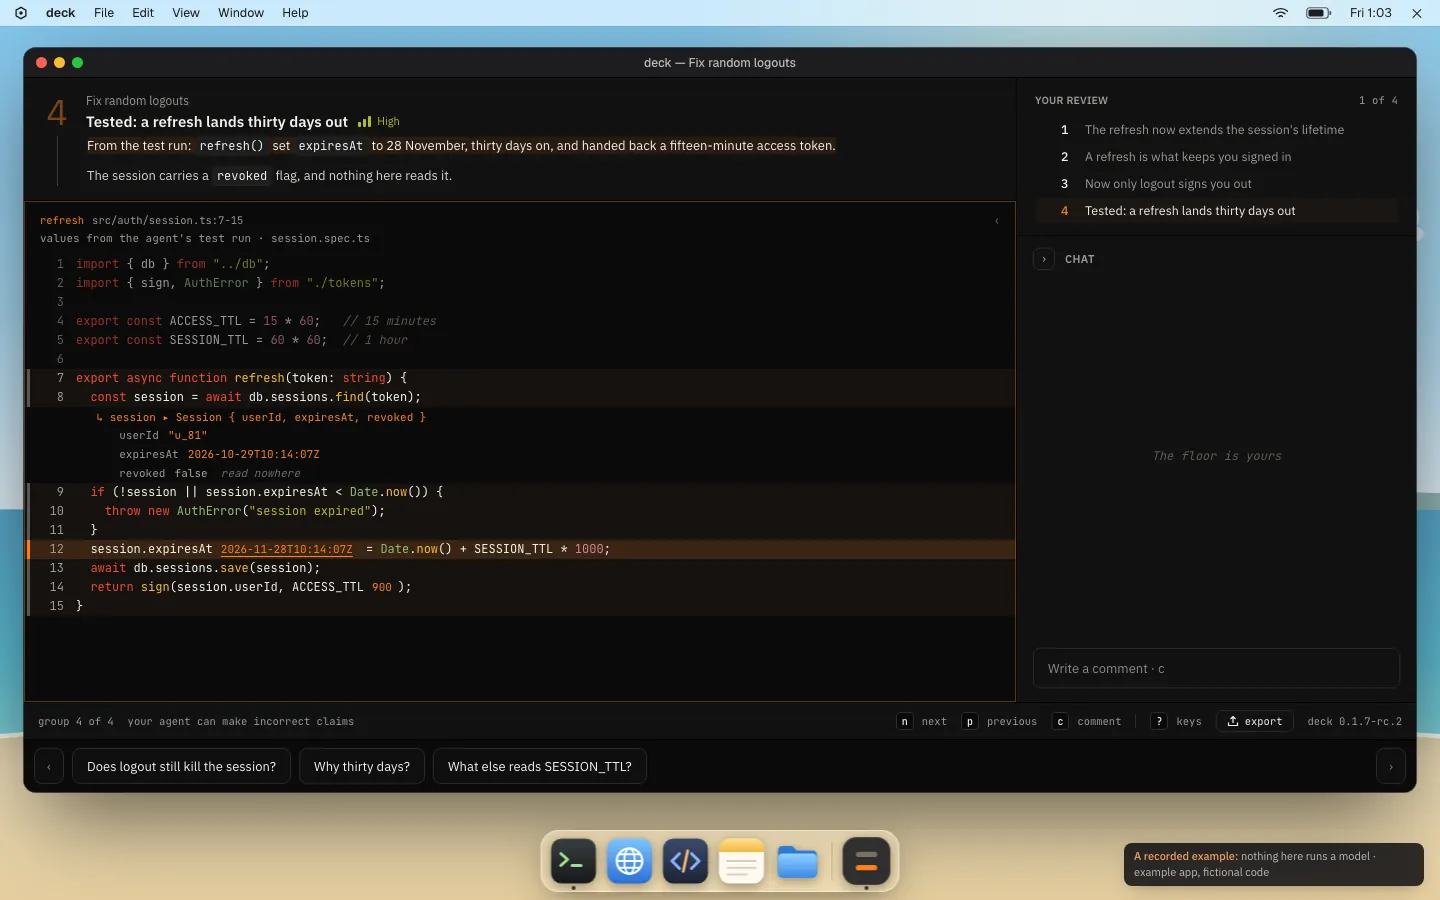
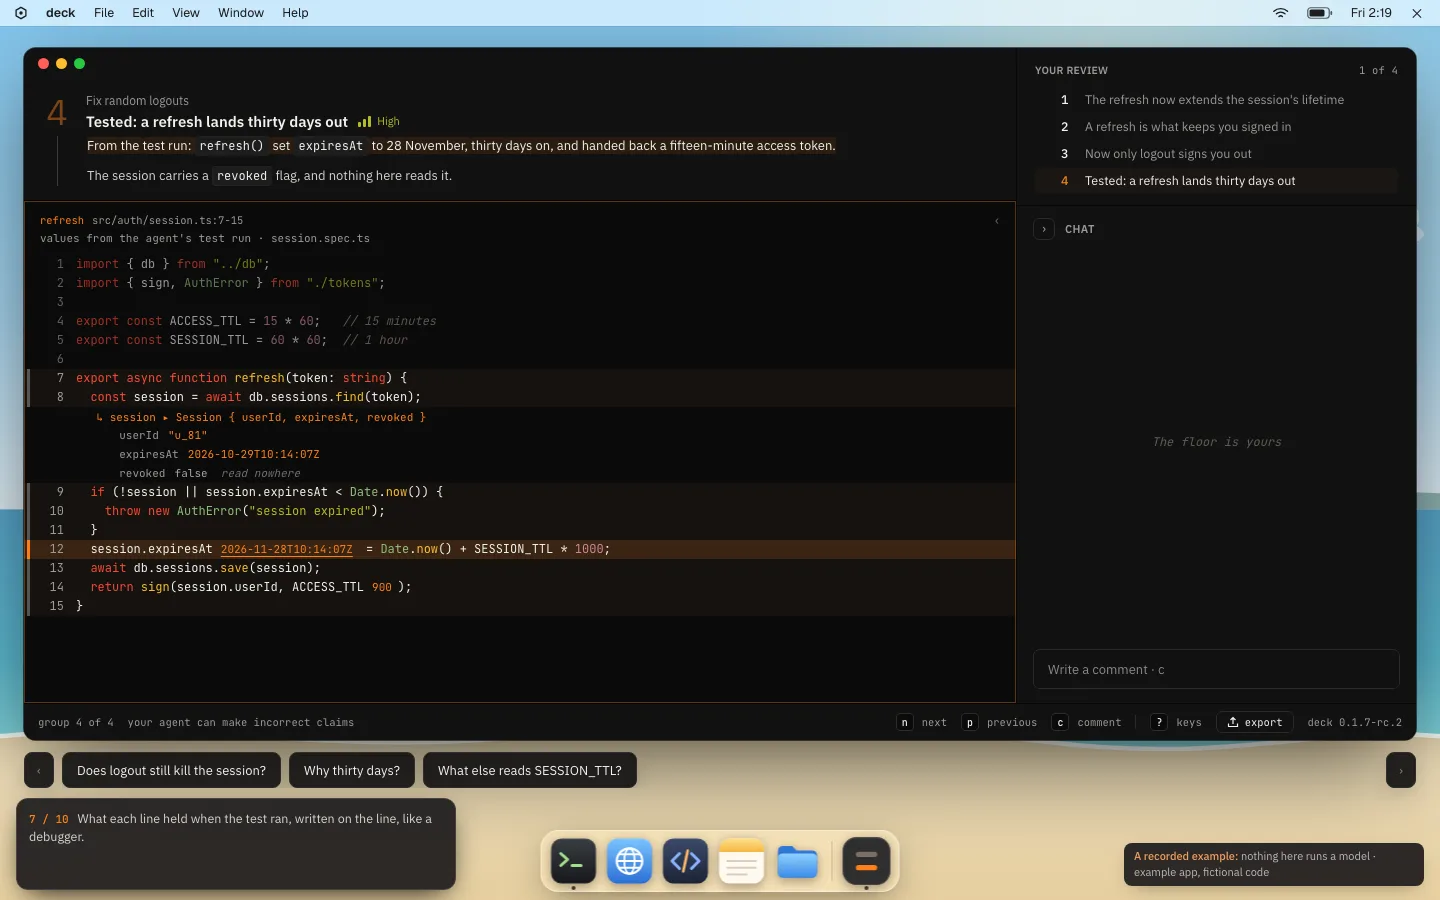
fix(play): no titlebar on the deck window, floating asks, two-column intro

diff --git a/site/css/play.css b/site/css/play.css
@@ -20,6 +20,19 @@
 .pi-phone{display:none}
 .pi-honest{margin:calc(16*var(--u)) 0 0;color:var(--dim);font-size:var(--fs-label)}
 .pi-honest b{color:#d98a4a;font-weight:500}
+/* Desktop: the words on the left, the desktop on the right, centred in the window */
+@media (min-width:1101px){
+ .pi{display:grid;grid-template-columns:minmax(300px,4fr) 7fr;grid-template-areas:"head frame" "honest frame";column-gap:calc(56*var(--u));align-content:center;min-height:calc(100svh - 64px);padding-block:calc(40*var(--u))}
+ .pi-head{grid-area:head;align-self:end;max-width:44ch}
+ .pi-head h1{font-size:clamp(calc(36*var(--u)),3.4vw,calc(56*var(--u)));line-height:1.04;letter-spacing:-.02em;text-wrap:balance}
+ .pi-line{margin-top:calc(16*var(--u))}
+ .pi-steps{display:grid;gap:calc(10*var(--u));margin:calc(28*var(--u)) 0 0;padding:0;list-style:none;counter-reset:s}
+ .pi-steps li{counter-increment:s;display:flex;align-items:baseline;gap:12px;color:var(--soft);font-size:var(--fs-label)}
+ .pi-steps li::before{content:counter(s,decimal-leading-zero);font:400 11px var(--mono);color:var(--accent);flex:none}
+ .pi-frame{grid-area:frame;align-self:center;margin-top:0;max-width:100%}
+ .pi-honest{grid-area:honest;align-self:start;margin-top:calc(28*var(--u))}
+}
+@media (max-width:1100px){.pi-steps{display:none}}
 /* phones, tablets and narrow windows: a still of it, and where to watch it */
 @media (max-width:1100px),(hover:none),(pointer:coarse){
  .pi-start{display:none}
@@ -100,7 +113,15 @@ html.desk-on,html.desk-on body{overflow:hidden}
 .tw-ft{flex:none;display:flex;justify-content:space-between;padding:4px 2px 0;font-size:11.5px;color:var(--dim)}
 .dw{left:max(24px,calc(50% - 740px));right:max(24px,calc(50% - 740px));top:calc(var(--mbh) + 22px);bottom:calc(var(--dockh) + 40px);background:#000}
 .dw .dk{flex:1;min-height:0;border:0;border-radius:0;box-shadow:none}
-.dw .dk-asks{flex:none;height:auto;padding:8px 10px;background:#0b0b0b;border-top:1px solid #000}
+.dw{overflow:visible;bottom:calc(var(--dockh) + 92px)}
+/* deck has no titlebar: the lights sit over the band, as in the app */
+.dw .wbar{position:absolute;top:0;left:0;z-index:3;height:30px;padding:0 14px;background:none;border:0;pointer-events:none}
+.dw .wt{display:none}
+.dw .dk{border-radius:12px;overflow:hidden}
+.dw .dk-band{padding-top:30px}
+/* the asks float under the window, as in the app, not in a strip inside it */
+.dw .dk-asks{position:absolute;top:calc(100% + 12px);left:0;right:0;height:auto;padding:0;background:none;border:0}
+.dw .ak,.dw .ak-n{background:#0f0f0fe6;border-color:#2e2e2c;box-shadow:0 8px 24px -10px #000000b3;backdrop-filter:blur(8px);-webkit-backdrop-filter:blur(8px)}
 
 /* the desktop's controls: a slim step rail that shows while a hand is about, the caption, the honest line */
 .srail{position:absolute;left:50%;top:calc(var(--mbh) + 7px);z-index:4;transform:translateX(-50%);display:flex;gap:4px;opacity:0;transition:opacity 420ms var(--ease)}

diff --git a/site/play/index.html b/site/play/index.html
@@ -43,6 +43,7 @@
   <p class="eyebrow accent">Try a full deck</p>
   <h1 id="pi-h">Fixed the random logouts</h1>
   <p class="pi-line">An agent's one-line fix, on a desktop like yours: it writes a deck, you open it, question it and decide. About a minute and a half.</p>
+  <ol class="pi-steps"><li>The agent writes a deck</li><li>You open it from the bar</li><li>You question it on the code</li><li>You decide and export</li></ol>
  </div>
  <div class="pi-frame">
   <img class="pi-still" src="/assets/play-still.webp" srcset="/assets/play-still-800.webp 800w, /assets/play-still.webp 1440w" sizes="(max-width: 1100px) 100vw, 1200px" width="1440" height="900" alt="A desktop with the deck window open on group 4: the values each line held, the review down the side, and the questions under the window." decoding="async">
